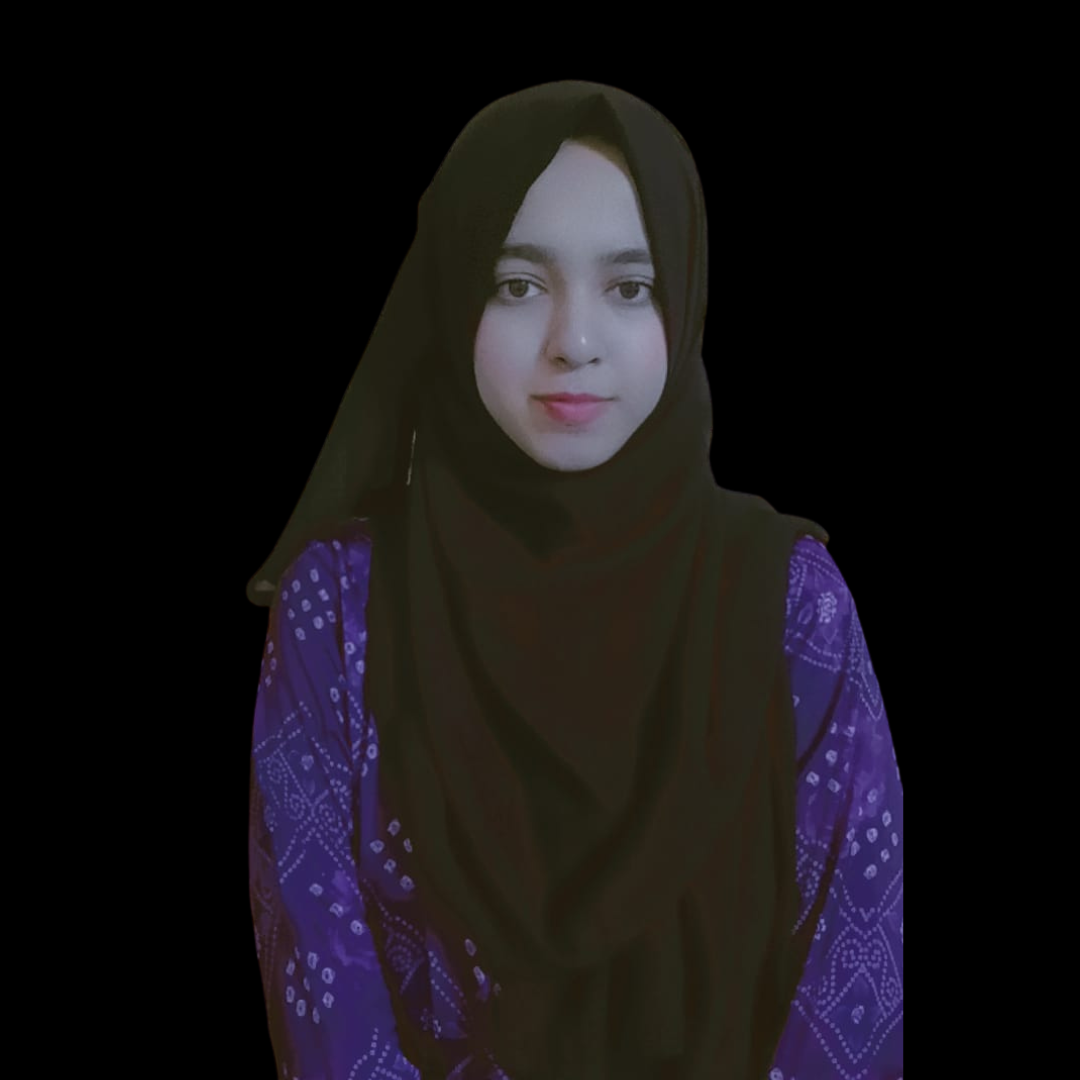
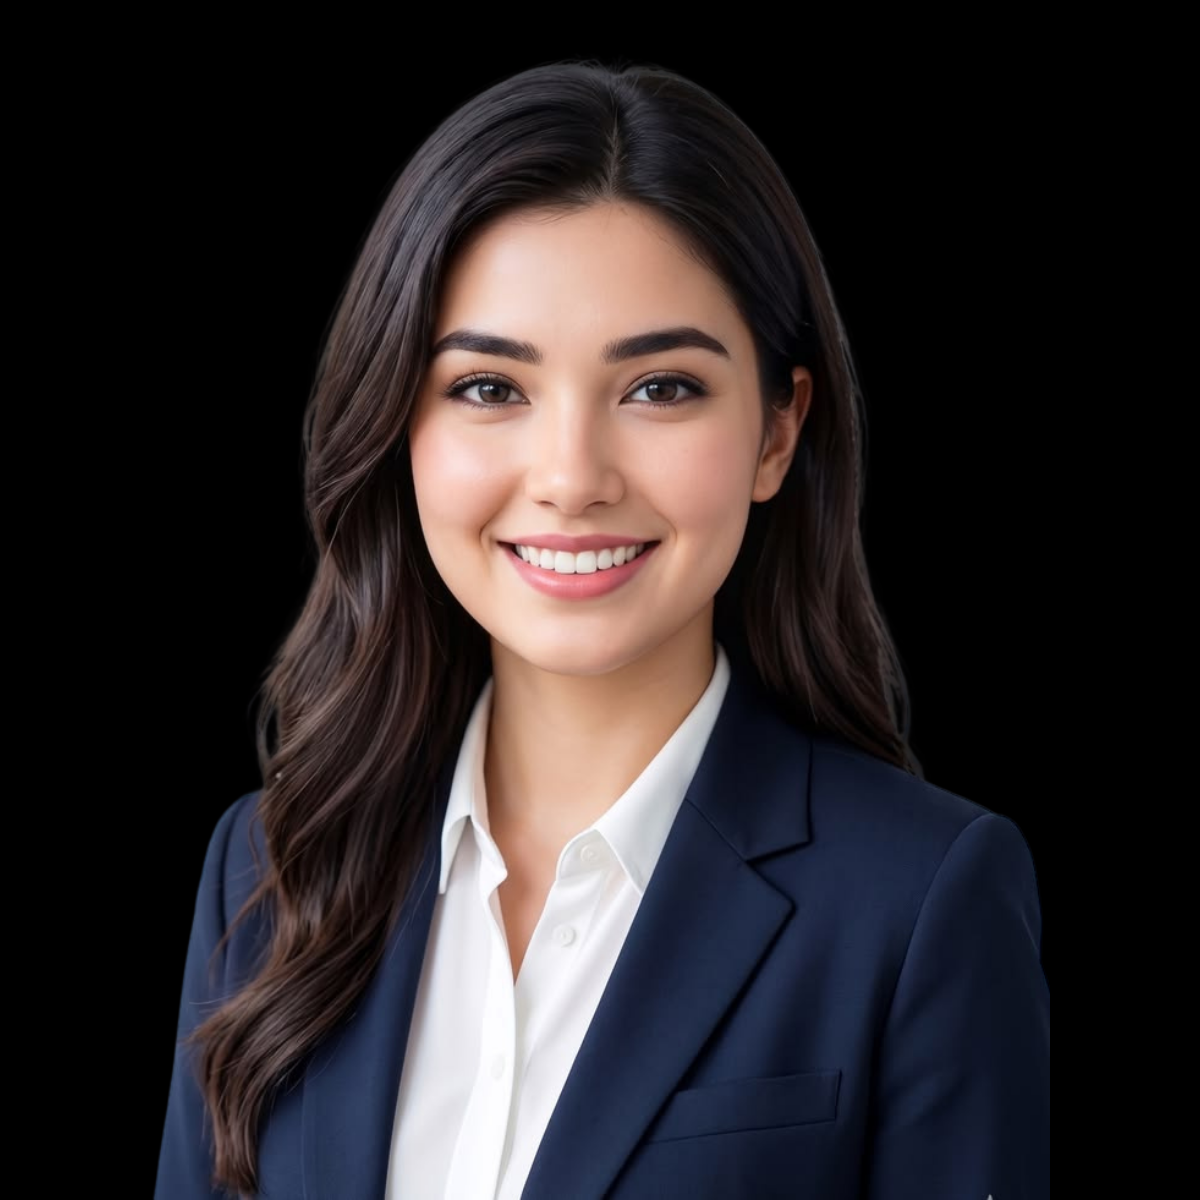
add the profile

diff --git a/app/page.js b/app/page.js
@@ -1461,7 +1461,9 @@ function MainPage() {
       </section>
 
       {/*last page*/}
+      
       <section
+     
         className={`relative w-full h-[180px] overflow-hidden transition-all duration-500 bg-cover bg-center bg-no-repeat ${
           darkMode ? "bg-[#090016] text-white" : "bg-white text-black"
         }`}
@@ -1470,7 +1472,9 @@ function MainPage() {
             ? "url('/images/skills-bg.png')"
             : "url('/images/experience-bg1.png')",
         }}
+        
       >
+        
         {/* Purple Glow */}
         <div className="absolute inset-0 flex items-center justify-center">
           <div
@@ -1484,6 +1488,7 @@ function MainPage() {
         <div className="relative z-10 flex flex-col items-center justify-center h-full">
           {/* Logo */}
           <div className="relative w-[55px] h-[55px] sm:w-[65px] sm:h-[65px]">
+             <Link href="#home">
             <Image
               src="/images/logo1.png"
               alt="Logo"
@@ -1491,6 +1496,7 @@ function MainPage() {
               priority
               className="object-contain"
             />
+            </Link>
           </div>
 
           {/* Navbar Links */}
